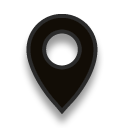
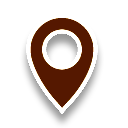
major style changes, changed look of dark pin

Changed region(s): [[0.1875, 0.0938, 0.7812, 0.9062]]

diff --git a/style.css b/style.css
@@ -31,6 +31,7 @@
 
 body {
 	font-family: 'Roboto', serif;
+	line-height: 3em;
 }
 
 .block {
@@ -70,7 +71,7 @@ section {
 }
 
 .sample div {
-	box-shadow: 0px 1px 6px rgba(0, 0, 0, 0.4);
+	box-shadow: 0px 1px 18px rgba(0, 0, 0, 0.4);
     margin: 0 auto;
 }
 
@@ -120,9 +121,11 @@ p {
 	left: 16px;
 	right: 0;
 	bottom: 0;
-	width: 24px;
-	height: 24px;
+	width: 32px;
+	height: 32px;
 	background: url("img/info.svg");
+	background-size: 32px 32px;
+	opacity: 0.6;
 	z-index: 5;
 }
 
@@ -150,7 +153,9 @@ p {
 	bottom: 8px;
 	right: 8px;
 	margin-top: 1em;
-	font-size: 125%;
+	font-size: 150%;
+	line-height: 1.25em;
+	cursor: default;
 }
 
 .qtip-content {
